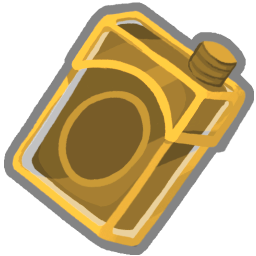
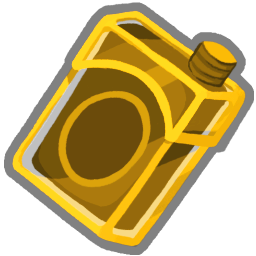
feat: add new potion soporific

diff --git a/AlchemistCode/Potions/Soporific.cs b/AlchemistCode/Potions/Soporific.cs
@@ -1,0 +1,27 @@
+using System.Collections.Generic;
+using MegaCrit.Sts2.Core.Commands;
+using MegaCrit.Sts2.Core.Entities.Cards;
+using MegaCrit.Sts2.Core.Entities.Creatures;
+using MegaCrit.Sts2.Core.Entities.Potions;
+using MegaCrit.Sts2.Core.GameActions.Multiplayer;
+using MegaCrit.Sts2.Core.HoverTips;
+using MegaCrit.Sts2.Core.Models;
+
+namespace Alchemist.AlchemistCode.Potions;
+
+public class Soporific : AlchemistPotion, IBrewOnly
+{
+    // Event rarity keeps this out of every rarity-filtered roll and files it under "Special" in the
+    // potion lab, which is where a potion that is "created by other means" belongs
+    public override PotionRarity Rarity => PotionRarity.Event;
+    public override PotionUsage Usage => PotionUsage.CombatOnly;
+    public override TargetType TargetType => TargetType.AnyEnemy;
+
+    public override IEnumerable<IHoverTip> ExtraHoverTips => [HoverTipFactory.Static(StaticHoverTip.Stun)];
+
+    protected override async Task OnUse(PlayerChoiceContext choiceContext, Creature? target)
+    {
+        PotionModel.AssertValidForTargetedPotion(target);
+        await CreatureCmd.Stun(target!);
+    }
+}

diff --git a/AlchemistCode/Relics/BrewRestSiteOption.cs b/AlchemistCode/Relics/BrewRestSiteOption.cs
@@ -77,7 +77,7 @@ public sealed class BrewRestSiteOption : RestSiteOption
         var exclusives = new PotionModel[]
         {
             ModelDb.Potion<QuicksilverDraught>(),
-            ModelDb.Potion<BasiliskBile>(),
+            ModelDb.Potion<Soporific>(),
             ModelDb.Potion<Alkahest>(),
         }.Where(p => Owner.Potions.All(held => held.Id != p.Id)).ToList();
         if (exclusives.Count > 0 && rng.NextFloat() < BrewOnlyChance)

diff --git a/CHANGELOG.md b/CHANGELOG.md
@@ -17,6 +17,8 @@ Security.
 
 - Added a placeholder Alchemist character-select splash, replacing the borrowed
   Ironclad backdrop until the final art is ready
+- Added Soporific potion (Brew-only, thrown): "Stun an enemy." Replaces Basilisk
+  Bile
 
 ### Changed
 
@@ -55,6 +57,10 @@ Security.
   from 75% (100%) of base damage
 - Buffed Sinter card: free-cost condition decreased from 7 -> 5 cards in your
   Exhaust Pile
+
+### Removed
+
+- Removed Basilisk Bile potion, replaced by Soporific
 
 ### Fixed
 